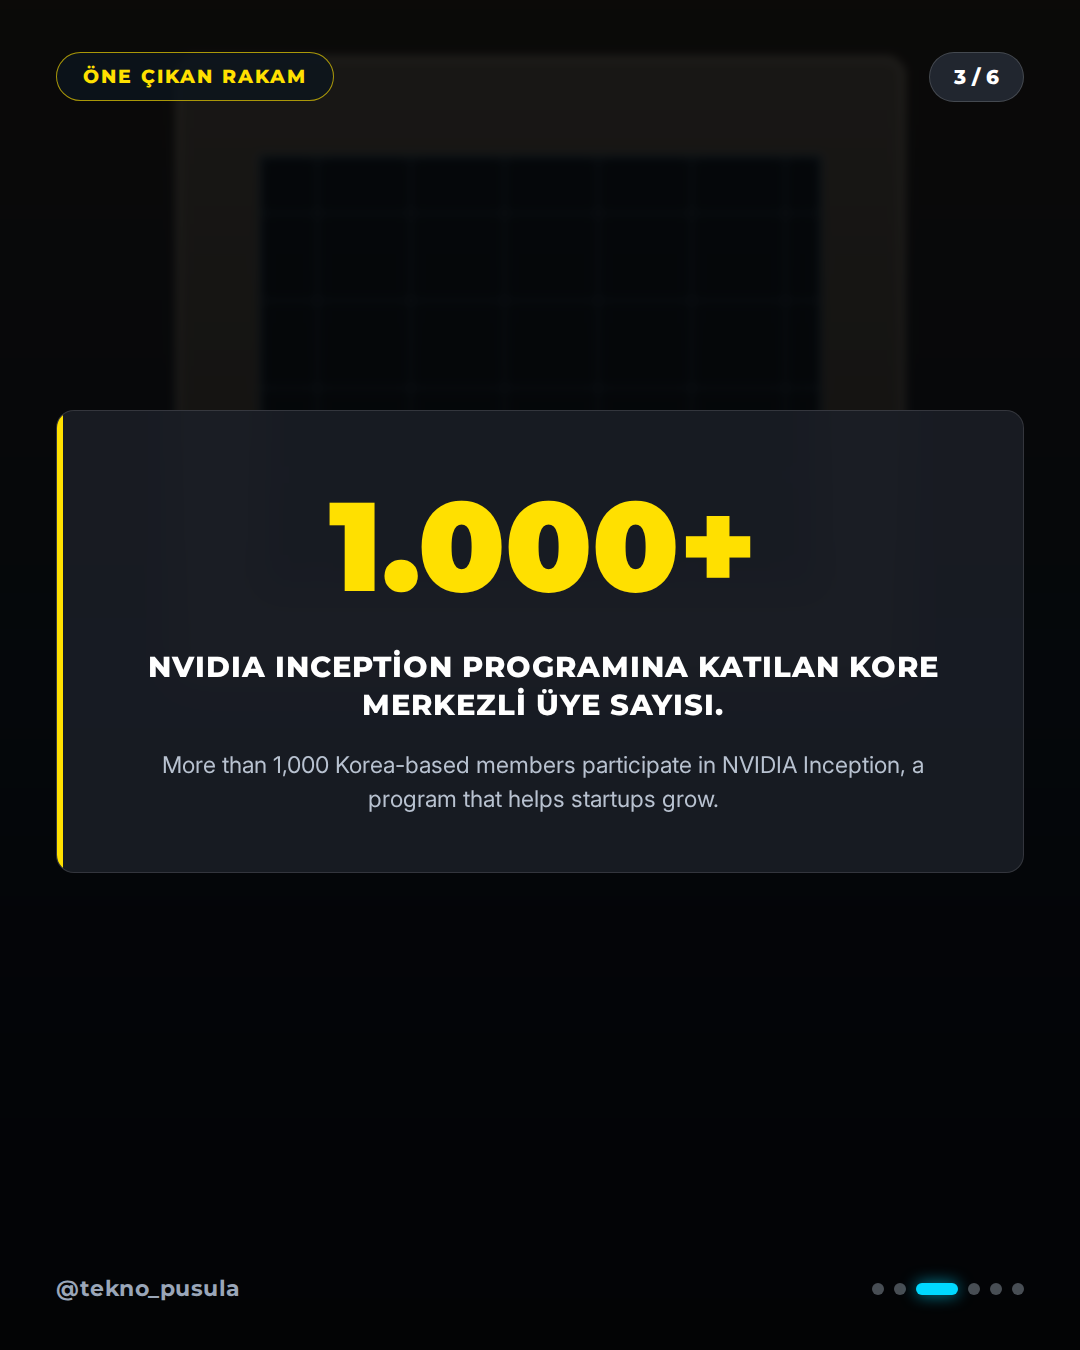
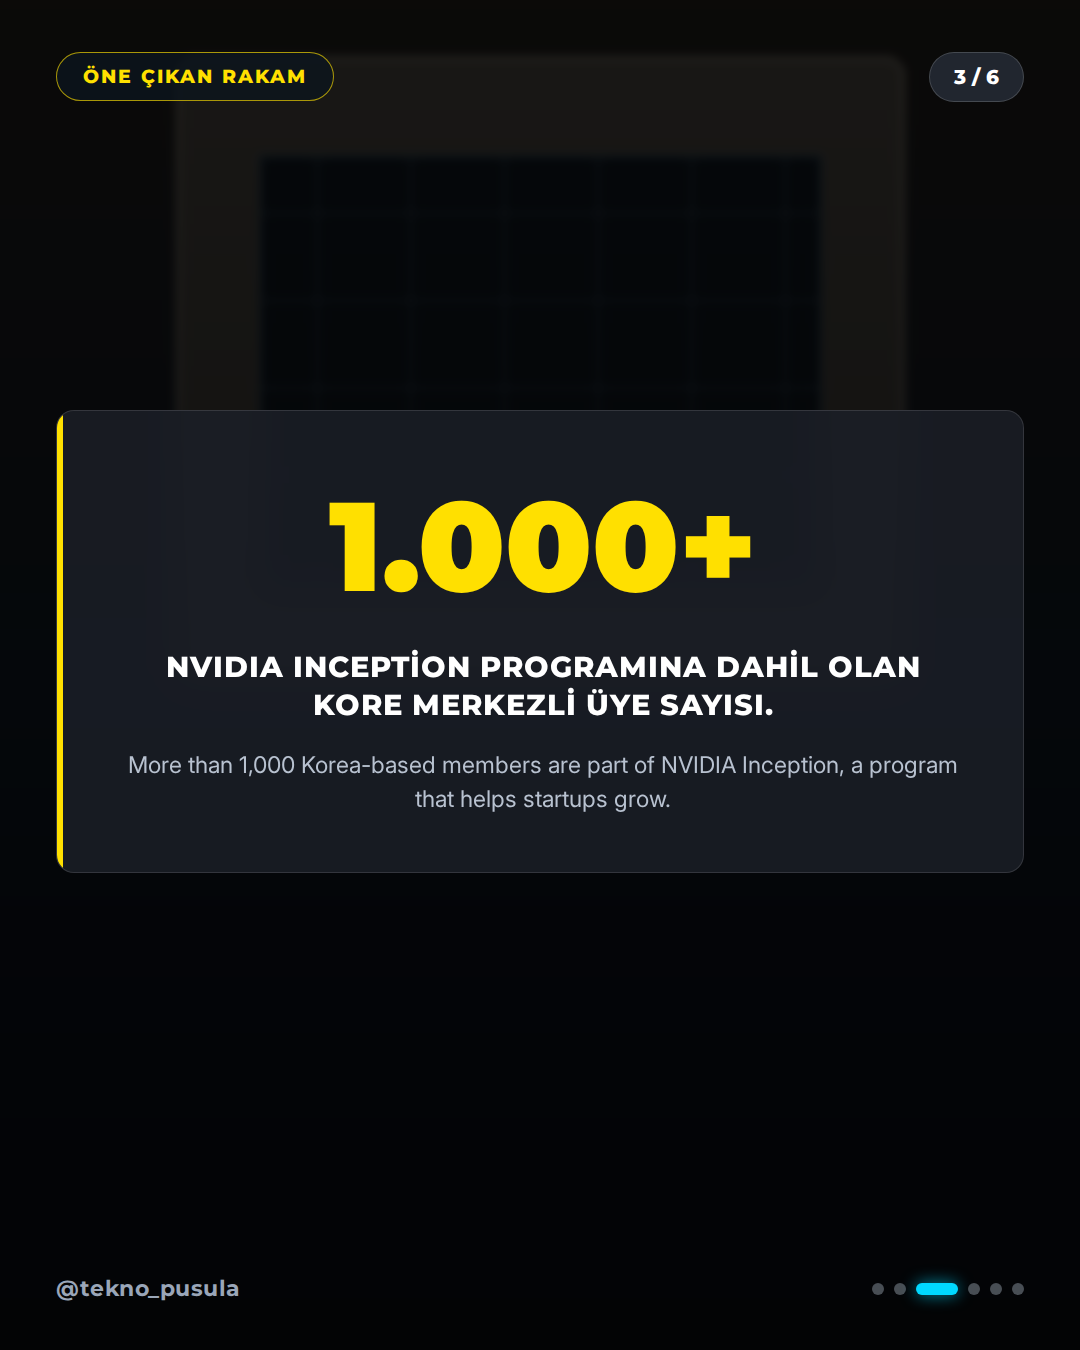
🤖 post: 2026-11-09 09:00 – NVIDIA Announces New Planned Investments in Korean Startups

Changed region(s): [[0.1222, 0.4667, 0.8861, 0.5289], [0.1222, 0.56, 0.8861, 0.6222]]

diff --git a/output/2026-11-09/01-0900-nvidia-announces-new-planned-investments-in-kore/verification.md b/output/2026-11-09/01-0900-nvidia-announces-new-planned-investments-in-kore/verification.md
@@ -3,20 +3,20 @@
 **Haber:** NVIDIA Announces New Planned Investments in Korean Startups at the MSIT-NVIDIA AI Startup Partnership Forum
 **Canonical URL:** https://blogs.nvidia.com/blog/korean-startup-investments-msit/
 **Kaynaklar:** NVIDIA Newsroom, TechCrunch, NVIDIA Newsroom, The Verge
-**Kontrol zamanı:** 2026-11-09T11:52:57+03:00
+**Kontrol zamanı:** 2026-11-09T11:57:27+03:00
 **Sonuç:** ✅ YAYINLANABİLİR
 
 ---
 
 ## İddia Bazlı Sonuçlar
 
-### 1. Korea's Ministry of Science and ICT and NVIDIA hosted the MSIT-NVIDIA AI Startup Partnership Forum at COEX.
+### 1. Korea’s Ministry of Science and ICT and NVIDIA hosted the MSIT-NVIDIA AI Startup Partnership Forum at COEX.
 - **Karar:** ✅ `supported`
 - **Kanıtlar:**
   - [https://blogs.nvidia.com/blog/korean-startup-investments-msit/](https://blogs.nvidia.com/blog/korean-startup-investments-msit/)
     > Korea’s Ministry of Science and ICT and NVIDIA hosted the MSIT-NVIDIA AI Startup Partnership Forum at COEX.
 
-### 2. Ryu Je-myung, vice minister of science and ICT, met with over 20 Korean startups across foundation models, physical AI, AI infrastructure and AI semiconductors.
+### 2. Ryu Je-myung, vice minister of science and ICT, joined NVIDIA leaders to meet with over 20 Korean startups.
 - **Karar:** ✅ `supported`
 - **Kanıtlar:**
   - [https://blogs.nvidia.com/blog/korean-startup-investments-msit/](https://blogs.nvidia.com/blog/korean-startup-investments-msit/)
@@ -28,37 +28,37 @@
   - [https://blogs.nvidia.com/blog/korean-startup-investments-msit/](https://blogs.nvidia.com/blog/korean-startup-investments-msit/)
     > NVIDIA also announced an investment in Korean startup Point2, with additional investments planned in Motif Technologies, RLWRLD and Upstage.
 
-### 4. Point2 Technology builds scalable, radio frequency-based interconnects that move data between chips and racks in AI factories.
+### 4. Point2 Technology is an AI interconnect company that builds scalable, radio frequency-based interconnects.
 - **Karar:** ✅ `supported`
 - **Kanıtlar:**
   - [https://blogs.nvidia.com/blog/korean-startup-investments-msit/](https://blogs.nvidia.com/blog/korean-startup-investments-msit/)
     > Point2 Technology, an AI interconnect company, builds scalable, radio frequency-based interconnects that move data between chips and racks in AI factories
 
-### 5. Motif Technologies develops foundation models for building AI agents, including Motif-3, a large language model released with open weights.
+### 5. Motif Technologies is a Seoul-based AI lab that develops foundation models for building AI agents, including Motif-3.
 - **Karar:** ✅ `supported`
 - **Kanıtlar:**
   - [https://blogs.nvidia.com/blog/korean-startup-investments-msit/](https://blogs.nvidia.com/blog/korean-startup-investments-msit/)
     > Motif Technologies, a Seoul-based AI lab, develops foundation models for building AI agents that carry out complex tasks, including Motif-3, a large language model released with open weights.
 
-### 6. RLWRLD develops robotics foundation models that enable humanoid and industrial robots to perform complex real-world tasks requiring five-finger dexterity.
+### 6. RLWRLD is a physical AI startup based in San Francisco, Seoul and Tokyo that develops robotics foundation models.
 - **Karar:** ✅ `supported`
 - **Kanıtlar:**
   - [https://blogs.nvidia.com/blog/korean-startup-investments-msit/](https://blogs.nvidia.com/blog/korean-startup-investments-msit/)
-    > RLWRLD, a physical AI startup based in San Francisco, Seoul and Tokyo, develops robotics foundation models that enable humanoid and industrial robots to perform complex real-world tasks that require five-finger dexterity
+    > RLWRLD, a physical AI startup based in San Francisco, Seoul and Tokyo, develops robotics foundation models that enable humanoid and industrial robots to perform complex real-world tasks
 
-### 7. Upstage develops Solar language models and document AI tools that help businesses extract information from complex documents and streamline workflows.
+### 7. Upstage is a Korean enterprise AI company that develops Solar language models and document AI tools.
 - **Karar:** ✅ `supported`
 - **Kanıtlar:**
+  - [https://blogs.nvidia.com/blog/korean-startup-investments-msit/](https://blogs.nvidia.com/blog/korean-startup-investments-msit/)
+    > Upstage, a Korean enterprise AI company, develops Solar language models and document AI tools that help businesses extract information from complex documents
   - [https://blogs.nvidia.com/blog/korean-startup-investments-msit/](https://blogs.nvidia.com/blog/korean-startup-investments-msit/)
     > Upstage, a Korean enterprise AI company, develops Solar language models and document AI tools that help businesses extract information from complex documents, streamline workflows and build AI applications for everyday operations.
 
-### 8. More than 1,000 Korea-based members participate in NVIDIA Inception, a program that helps startups grow.
+### 8. More than 1,000 Korea-based members are part of NVIDIA Inception, a program that helps startups grow.
 - **Karar:** ✅ `supported`
 - **Kanıtlar:**
   - [https://blogs.nvidia.com/blog/korean-startup-investments-msit/](https://blogs.nvidia.com/blog/korean-startup-investments-msit/)
-    > The planned investments build on NVIDIA’s work with Korea’s startup and venture community, including more than 1,000 Korea-based members of NVIDIA Inception, a program that helps startups grow with access to preferred pricing, technical expertise and opportunities for investor introductions.
-  - [https://blogs.nvidia.com/blog/korean-startup-investments-msit/](https://blogs.nvidia.com/blog/korean-startup-investments-msit/)
-    > more than 1,000 Korea-based members of NVIDIA Inception, a program that helps startups grow with access to preferred pricing, technical expertise and opportunities for investor introductions.
+    > including more than 1,000 Korea-based members of NVIDIA Inception, a program that helps startups grow with access to preferred pricing, technical expertise and opportunities for investor introductions.
 
 ---
 
@@ -66,14 +66,14 @@
 
 | İddia | 1. Tur | 2. Tur | Nihai |
 |-------|--------|--------|-------|
-| Korea's Ministry of Science and ICT and NVIDIA hosted the MS | supported | supported | supported |
-| Ryu Je-myung, vice minister of science and ICT, met with ove | supported | supported | supported |
+| Korea’s Ministry of Science and ICT and NVIDIA hosted the MS | supported | supported | supported |
+| Ryu Je-myung, vice minister of science and ICT, joined NVIDI | supported | supported | supported |
 | NVIDIA announced an investment in Korean startup Point2, wit | supported | supported | supported |
-| Point2 Technology builds scalable, radio frequency-based int | supported | supported | supported |
-| Motif Technologies develops foundation models for building A | supported | supported | supported |
-| RLWRLD develops robotics foundation models that enable human | supported | supported | supported |
-| Upstage develops Solar language models and document AI tools | supported | supported | supported |
-| More than 1,000 Korea-based members participate in NVIDIA In | supported | supported | supported |
+| Point2 Technology is an AI interconnect company that builds  | supported | supported | supported |
+| Motif Technologies is a Seoul-based AI lab that develops fou | supported | supported | supported |
+| RLWRLD is a physical AI startup based in San Francisco, Seou | supported | supported | supported |
+| Upstage is a Korean enterprise AI company that develops Sola | supported | supported | supported |
+| More than 1,000 Korea-based members are part of NVIDIA Incep | supported | supported | supported |
 
 ## Kaynak Metinleri
 

diff --git a/output/2026-11-09/01-0900-nvidia-announces-new-planned-investments-in-kore/captions.md b/output/2026-11-09/01-0900-nvidia-announces-new-planned-investments-in-kore/captions.md
@@ -2,70 +2,64 @@
 
 ## INSTAGRAM
 
-NVIDIA ve Güney Kore yapay zeka dünyasında güçlerini birleştiriyor! 🚀
+NVIDIA ve Kore'den dev yapay zeka hamlesi! 🚀 MSIT-NVIDIA AI Startup Partnership Forum etkinliğinde teknoloji dünyasının geleceğini şekillendirecek önemli yatırımlar duyuruldu.
 
-MSIT-NVIDIA AI Startup Partnership Forum kapsamında, NVIDIA'nın Kore'deki girişim ekosistemine olan ilgisi zirveye ulaştı. NVIDIA Inception programına dahil olan 1.000'den fazla Koreli girişim, fiziksel AI'dan yarı iletkenlere kadar devrim niteliğinde işlere imza atıyor.
+Bilim ve İİT Bakan Yardımcısı Ryu Je-myung ve NVIDIA liderleri, Kore merkezli 20'den fazla girişimle bir araya geldi. NVIDIA Inception programına dahil olan 1.000'den fazla Koreli girişim bu ekosistemin merkezinde yer alıyor.
 
-Point2, Motif Technologies, RLWRLD ve Upstage gibi şirketler; AI fabrikaları, insansı robotlar ve gelişmiş dil modelleriyle sektörün geleceğini şekillendiriyor. Donanım ve yazılımın bu uyumu, yapay zekayı sadece bir yazılım olmaktan çıkarıp fiziksel dünyaya taşıyor.
+Point2 Technology, Motif Technologies, RLWRLD ve Upstage gibi yenilikçi şirketler bu yatırımlardan pay alıyor. Yapay zeka ve robotik alanındaki bu gelişmeler sektöre yön verecek.
 
-Sizce donanım ve yazılım ortaklıkları yapay zeka ekosistemini nasıl şekillendirecek? Yorumlarda buluşalım!
+Sizce teknoloji devlerinin yerel girişimlerle ortaklıkları sektörü nasıl dönüştürecek? Düşüncelerinizi yorumlarda bizimle paylaşın!
 
 Kaynak: NVIDIA Newsroom, TechCrunch
 
-#NVIDIA #YapayZeka #AI #Girişimcilik #Teknoloji #Innovation #Startup #Robotik #TechNews #Gelecek #DeepTech #NVIDIAInception
+#NVIDIA #Kore #YapayZeka #ArtificialIntelligence #Startup #Teknoloji #Girişimcilik #TechNews #Innovation #AI
 
 ## TIKTOK
 
-NVIDIA ve Güney Kore'den dev AI hamlesi! 🇰🇷🤖 1.000'den fazla girişim, fiziksel yapay zeka ve robotik alanında sınırları zorluyor. Point2, Upstage ve daha fazlası... AI fabrikalarının geleceği burada şekilleniyor. Sizce bu ortaklıklar dünyayı nasıl değiştirecek? 
+NVIDIA ve Güney Kore'den dev AI yatırımı! 🤖 1.000'den fazla girişimin desteklendiği bu dev ortaklığın detayları haberimizde. Kaynak: NVIDIA Newsroom, TechCrunch
 
-Kaynak: NVIDIA Newsroom, TechCrunch
-
-#NVIDIA #YapayZeka #Teknoloji #AI #Girişimcilik
+#NVIDIA #YapayZeka #Teknoloji #Girişimcilik #AI
 
 ## X
 
-NVIDIA ve Güney Kore, yapay zeka ekosistemini büyütüyor! 🇰🇷 NVIDIA Inception programındaki 1.000+ Koreli girişim; fiziksel AI, robotik ve veri altyapısında devrim yaratıyor. Donanım ve yazılımın bu uyumu sektörü nasıl değiştirecek? 
-
-Kaynak: NVIDIA Newsroom, TechCrunch
+NVIDIA ve Kore'den yapay zeka hamlesi! MSIT-NVIDIA Forumu'nda Point2, Motif Technologies, RLWRLD ve Upstage gibi girişimler için yeni yatırımlar duyuruldu. Inception programıyla 1.000'den fazla Koreli girişim destekleniyor. Kaynak: NVIDIA Newsroom, TechCrunch
 
 #NVIDIA #YapayZeka
 
 ## THREADS
 
-NVIDIA ve Güney Kore'den AI Hamlesi 🇰🇷
+NVIDIA ve Kore'den Yapay Zeka Hamlesi 🚀
 
-NVIDIA, Koreli girişimlerle dev bir iş birliğine imza attı. 1.000'den fazla Inception üyesi; fiziksel AI, robotik ve veri altyapısı alanlarında geleceği inşa ediyor. Point2 ve Upstage gibi şirketler, donanım verimliliğini bambaşka bir seviyeye taşıyor.
+MSIT-NVIDIA AI Startup Partnership Forum'da Point2, Motif Technologies, RLWRLD ve Upstage gibi yenilikçi girişimler için önemli yatırımlar duyuruldu. NVIDIA Inception programı, Kore'deki 1.000'den fazla girişimi desteklemeye devam ediyor.
 
-Sizce donanım ve yazılım ortaklıkları yapay zeka ekosistemini nasıl şekillendirecek? 💭
+Sizce bu ortaklıklar sektörü nasıl dönüştürecek? 💭
 
 Kaynak: NVIDIA Newsroom, TechCrunch
 
-#YapayZeka
+#NVIDIA
 
 ## LINKEDIN
 
-Yapay zeka ekosisteminde stratejik bir iş birliği: NVIDIA ve Güney Kore.
+NVIDIA ve Güney Kore hükümeti, yapay zeka ekosistemini güçlendirmek adına stratejik bir adım attı. MSIT-NVIDIA AI Startup Partnership Forum kapsamında gerçekleştirilen buluşmada, yerel girişimlere yönelik yeni yatırımlar duyuruldu.
 
-MSIT-NVIDIA AI Startup Partnership Forum'da duyurulan gelişmeler, donanım ve yazılım entegrasyonunun önemini bir kez daha kanıtlıyor. NVIDIA Inception programına kayıtlı 1.000'den fazla Kore merkezli girişim, özellikle fiziksel AI, yarı iletkenler ve veri altyapısı alanlarında kritik çözümler üretiyor.
+NVIDIA Inception programı çatısı altında yer alan 1.000'i aşkın Kore merkezli üye, küresel ölçekte büyüme fırsatı buluyor. Point2 Technology, Motif Technologies, RLWRLD ve Upstage gibi öne çıkan şirketler bu yatırımlardan faydalanan isimler arasında yer alıyor.
 
-Point2 Technology'nin AI fabrikaları için geliştirdiği bağlantı çözümleri, Motif Technologies'in açık ağırlıklı modelleri ve Upstage'in belge AI araçları, sektördeki verimlilik çıtasını yükseltiyor. Bu tür ortaklıklar, yapay zekanın sadece dijital bir araç değil, endüstriyel otomasyonun temel taşı haline geldiğini gösteriyor.
+Teknoloji devlerinin yerel ekosistemlerle kurduğu bu stratejik ortaklıklar, küresel inovasyon hızını artırırken yeni iş modellerinin de önünü açıyor.
 
-Sizce donanım ve yazılım ortaklıkları yapay zeka ekosistemini nasıl şekillendirecek?
+Sizce teknoloji devlerinin yerel girişimlerle ortaklıkları sektörü nasıl dönüştürecek?
 
 Kaynak: NVIDIA Newsroom, TechCrunch
 
-#NVIDIA #YapayZeka #AI #Teknoloji #Girişimcilik
+#NVIDIA #YapayZeka #Girişimcilik #Teknoloji #İnovasyon
 
 ## FACEBOOK
 
-NVIDIA ve Güney Kore'den yapay zeka dünyasını değiştirecek dev hamle! 🚀
+NVIDIA ve Kore'den dev yapay zeka hamlesi! 🚀 MSIT-NVIDIA AI Startup Partnership Forum etkinliğinde teknoloji dünyasının geleceğini şekillendirecek önemli yatırımlar duyuruldu.
 
-MSIT-NVIDIA AI Startup Partnership Forum kapsamında, NVIDIA'nın Kore'deki girişim ekosistemiyle olan bağı güçlendi. NVIDIA Inception programına dahil olan 1.000'den fazla Koreli girişim; fiziksel AI, robotik ve veri altyapısı alanlarında önemli projelere imza atıyor.
+Point2 Technology, Motif Technologies, RLWRLD ve Upstage gibi yenilikçi şirketler bu yatırımlardan pay alıyor. NVIDIA Inception programı Kore merkezli binin üzerindeki üyesiyle büyüme desteği sağlamaya devam ediyor.
 
-Point2, Motif Technologies, RLWRLD ve Upstage gibi şirketler, donanım ve yazılımı birleştirerek yapay zekanın sınırlarını genişletiyor. Bu gelişmeler, endüstriyel otomasyondan iş akışlarına kadar pek çok alanda verimliliği artıracak.
-
-Sizce donanım ve yazılım ortaklıkları yapay zeka ekosistemini nasıl şekillendirecek? Yorumlarda buluşalım!
+Sizce teknoloji devlerinin yerel girişimlerle ortaklıkları sektörü nasıl dönüştürecek? Düşüncelerinizi yorumlarda bizimle paylaşın!
 
 Kaynak: NVIDIA Newsroom, TechCrunch
 
-#NVIDIA #YapayZeka #Teknoloji #Girişimcilik #AI
+#NVIDIA #YapayZeka #Teknoloji #Girişimcilik #Startup
